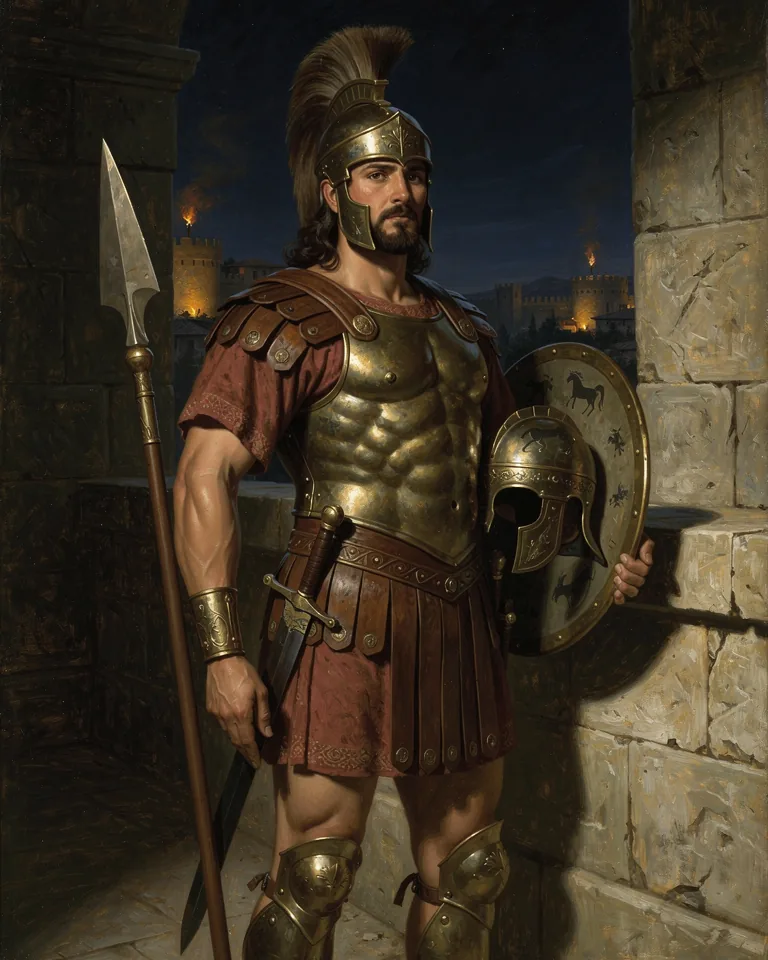
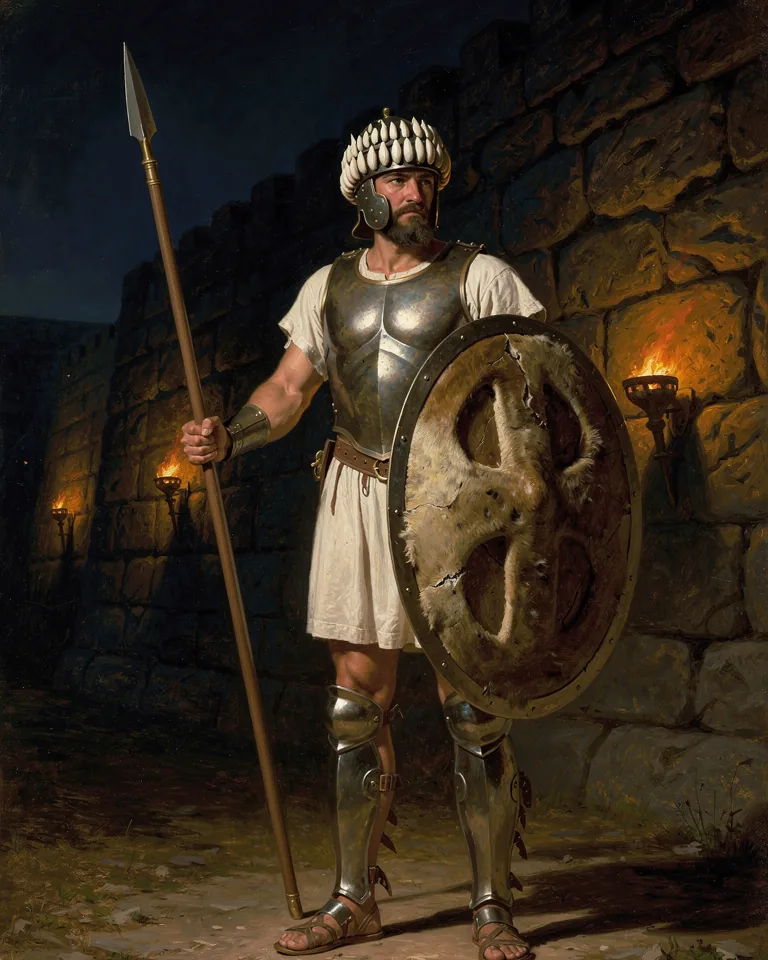
fix(images): redo six framed-canvas images and Hector in house style
The legacy artifact, deity, creature and location images were photographs
of a canvas on a wall, which showed as white or grey margins in cards. They
are regenerated full bleed through the backlog generator, with rows added so
the generator and provenance log stay the source of truth. Hector had Roman
armour; the new plate has a boar's-tusk helmet, bronze breastplate and a
figure-eight hide shield. Old files are removed and the Titanomachy cinematic
points at the new Hephaestus.

diff --git a/apps/web/src/app/stories/titanomachy/cinematic/page.tsx b/apps/web/src/app/stories/titanomachy/cinematic/page.tsx
@@ -52,7 +52,7 @@ const titanomachyScenes: StoryScene[] = [
     title: "The Divine Weapons",
     text: "Zeus descended to Tartarus and freed the Hundred-Handed Ones and the Cyclopes. The Cyclopes forged terrible weapons for the Olympians: the thunderbolt for Zeus, the trident for Poseidon, and the helm of invisibility for Hades.",
     mood: "triumphant",
-    imageUrl: "/deities/hephaestus.jpg",
+    imageUrl: "/deities/hephaestus.webp",
   },
   {
     id: "final-battle",

diff --git a/docs/design/image-backlog.md b/docs/design/image-backlog.md
@@ -436,3 +436,16 @@ Sacred figures, places, stories and objects from living Indigenous traditions mu
 | 411 | P2       | Artifact | Water of Life and Flowers of Revival                             | water-of-life                      | Korean Tradition                                                                                                                                                                                                                                                   | Professional, beautiful, and dramatic illustration of the mythological sacred artifact Water of Life and Flowers of Revival. The medicinal water of the Western Heaven and the flowers that restore bone, flesh, and breath, which Princess Bari brings back from the end of the world to revive her dead parents. Epic scene, highly detailed, dark mode friendly, dynamic lighting, no text.                          |
 | 412 | P2       | Artifact | Yagrush and Ayyamur                                              | yagrush-and-ayyamur                | Canaanite (Ugarit)                                                                                                                                                                                                                                                 | Professional, beautiful, and dramatic illustration of the mythological sacred artifact Yagrush and Ayyamur. The two clubs that Kothar-wa-Khasis makes and names for Baal: Yagrush, 'Driver', which fails to fell Yam, and Ayyamur, 'Expeller', which strikes him down. Epic scene, highly detailed, dark mode friendly, dynamic lighting, no text.                                                                      |
 | 413 | P2       | Artifact | Zbruch Idol                                                      | zbruch-idol                        | Slavic                                                                                                                                                                                                                                                             | Professional, beautiful, and dramatic illustration of the mythological sacred artifact Zbruch Idol. A four-sided limestone pillar about 2.6 metres tall, carved with four faces under a single cap and tiers of figures below, found in the Zbruch River in 1848 and now in the Archaeological. Epic scene, highly detailed, dark mode friendly, dynamic lighting, no text.                                             |
+
+## Regeneration rows
+
+Rows 414 to 419 are not procedural stand-ins. Their legacy images were photographs of a framed canvas on a wall (visible margins in the cards), so they are regenerated through the same generator and provenance log. They are outside the 413 count above.
+
+| #   | Priority | Type     | Name          | Slug          | Tradition | Prompt                                                           |
+| --- | -------- | -------- | ------------- | ------------- | --------- | ---------------------------------------------------------------- |
+| 414 | P1       | Artifact | Golden Fleece | golden-fleece | Greek     | Regenerate in the house style, full bleed with no frame or wall. |
+| 415 | P1       | Deity    | Dionysus      | dionysus      | Greek     | Regenerate in the house style, full bleed with no frame or wall. |
+| 416 | P1       | Deity    | Juno          | juno          | Roman     | Regenerate in the house style, full bleed with no frame or wall. |
+| 417 | P1       | Deity    | Hephaestus    | hephaestus    | Greek     | Regenerate in the house style, full bleed with no frame or wall. |
+| 418 | P1       | Creature | Each-uisge    | each-uisge    | Celtic    | Regenerate in the house style, full bleed with no frame or wall. |
+| 419 | P1       | Location | Cape Sounion  | cape-sounion  | Greek     | Regenerate in the house style, full bleed with no frame or wall. |
